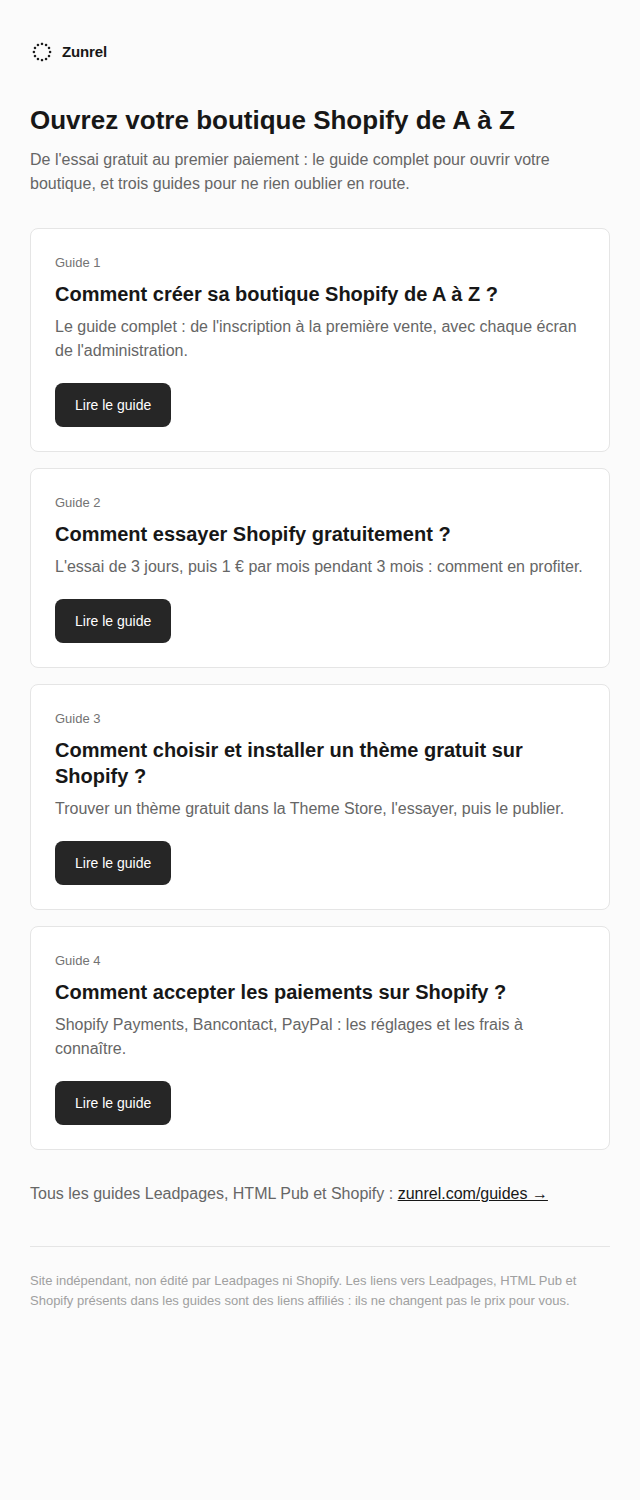
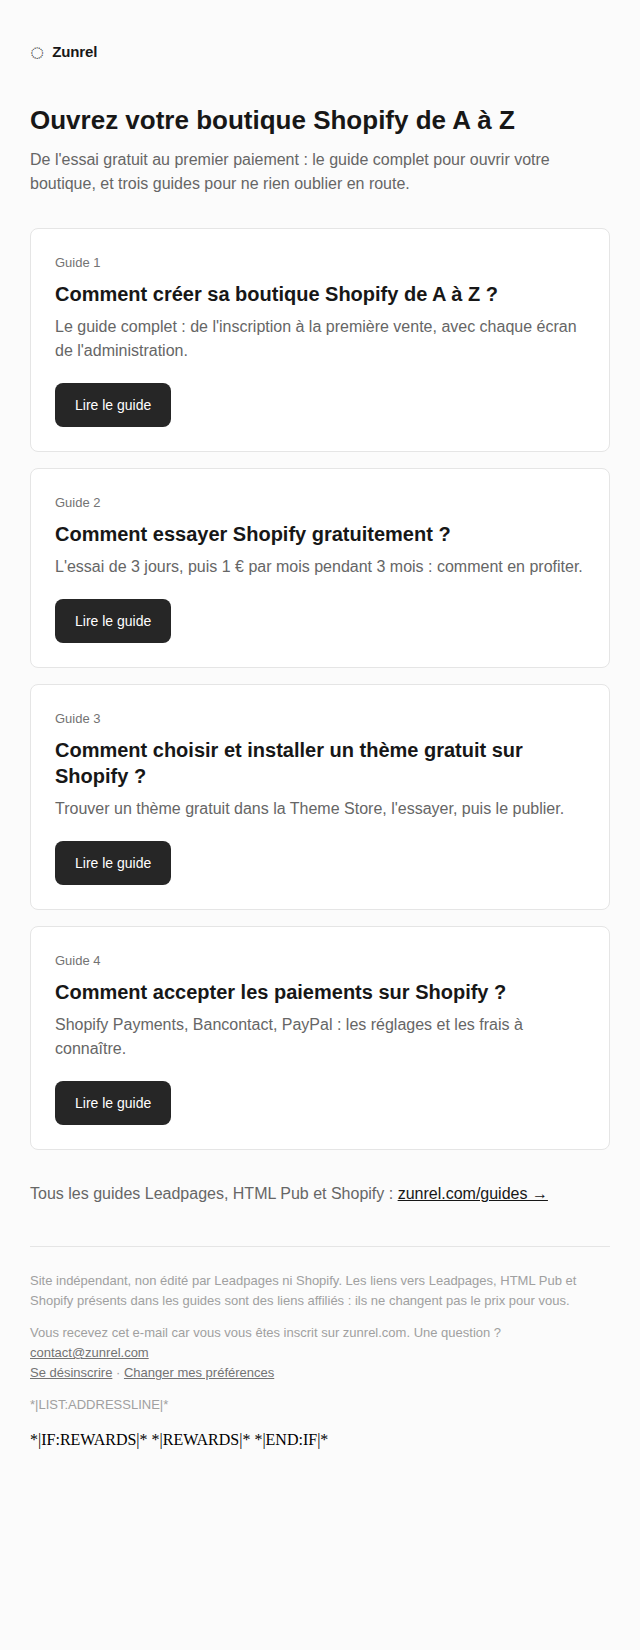
Freeze newsletter design (doc + CLAUDE.md rule), publishing rule, deliverability tip on confirmation page
Claude-Session: https://claude.ai/code/session_01GR1K9NNhP7eeotDXdXzcTk

Changed region(s): [[0.0312, 0.0307, 0.9062, 0.8893], [0.8438, 0.828, 0.875, 0.8893]]

diff --git a/docs/newsletter/MODELE-FIGE.md b/docs/newsletter/MODELE-FIGE.md
@@ -1,0 +1,30 @@
+# Modèle de newsletter Zunrel : FIGÉ
+
+Validé par Techonni le 28/09/2026. **Ne pas modifier l'apparence** sans son accord explicite dans la conversation.
+Seul le contenu change d'un envoi à l'autre (objet, introduction, guides).
+
+- Code : `renderNewsletter()` dans `scripts/mailchimp.mjs`
+- Aperçu de référence : `newsletters/apercu-2026-09-28.png`
+- Charte : artifact « Zunrel Design System » (noir et blanc, texte `#171717`, boutons `#262626`, fond `#fbfbfb`, rayon 8px, Geist)
+
+## Ce qui est figé
+
+| Élément | Choix validé |
+|---|---|
+| En-tête | Logo texte ◌ (`&#9676;`) + « Zunrel ». Pas d'image : il s'affiche même quand la messagerie bloque les images |
+| Titre | Objet de l'e-mail, 26px, 600 |
+| Introduction | 1 à 2 phrases, 16px, `#666666` |
+| Guides | 4 cartes blanches bordées `#e5e5e5`, rayon 8px : « Guide N », question du guide, résumé, bouton charbon « Lire le guide » |
+| Après les cartes | « Tous les guides Leadpages, HTML Pub et Shopify : zunrel.com/guides → » |
+| Pied de page | Mention d'indépendance et d'affiliation ; « Vous recevez cet e-mail car vous vous êtes inscrit sur zunrel.com. Une question ? contact@zunrel.com » ; « Se désinscrire · Changer mes préférences » ; adresse postale ; badge Mailchimp (obligatoire en forfait gratuit) |
+| Interdit | Afficher l'adresse e-mail du destinataire, le pied de page anglais par défaut de Mailchimp, les modèles de l'éditeur visuel Mailchimp, les images décoratives |
+| Liens | Toujours avec `utm_source=newsletter&utm_medium=email` |
+
+## Créer une newsletter
+
+```bash
+node --experimental-strip-types scripts/mailchimp.mjs newsletter <slug> <slug> <slug> <slug> \
+  --subject "…" --intro "…" [--tag shopify] [--to <e-mail de test>]
+```
+
+Le script crée un brouillon et envoie seulement un test. L'envoi aux abonnés demande le « oui » de Techonni.

diff --git a/CLAUDE.md b/CLAUDE.md
@@ -20,3 +20,11 @@ Consult these guides before working on related tasks:
 - [Adding or managing content](https://docs.astro.build/en/guides/content-collections/)
 - [Adding styles or using Tailwind](https://docs.astro.build/en/guides/styling/)
 - [Supporting multiple languages](https://docs.astro.build/en/guides/internationalization/)
+
+## Newsletter (Mailchimp)
+
+The newsletter design is **frozen** (validated by Techonni on 2026-09-28). Do not change its look without his explicit approval: see `docs/newsletter/MODELE-FIGE.md`. Build newsletters only with `scripts/mailchimp.mjs newsletter`. Never send to subscribers without his explicit « oui » for that campaign.
+
+## Publishing
+
+Work is only live on zunrel.com once it is merged into `main` (Vercel deploys `main`). Every session must finish by merging its branch into `main` and checking the production deployment is `READY`.
